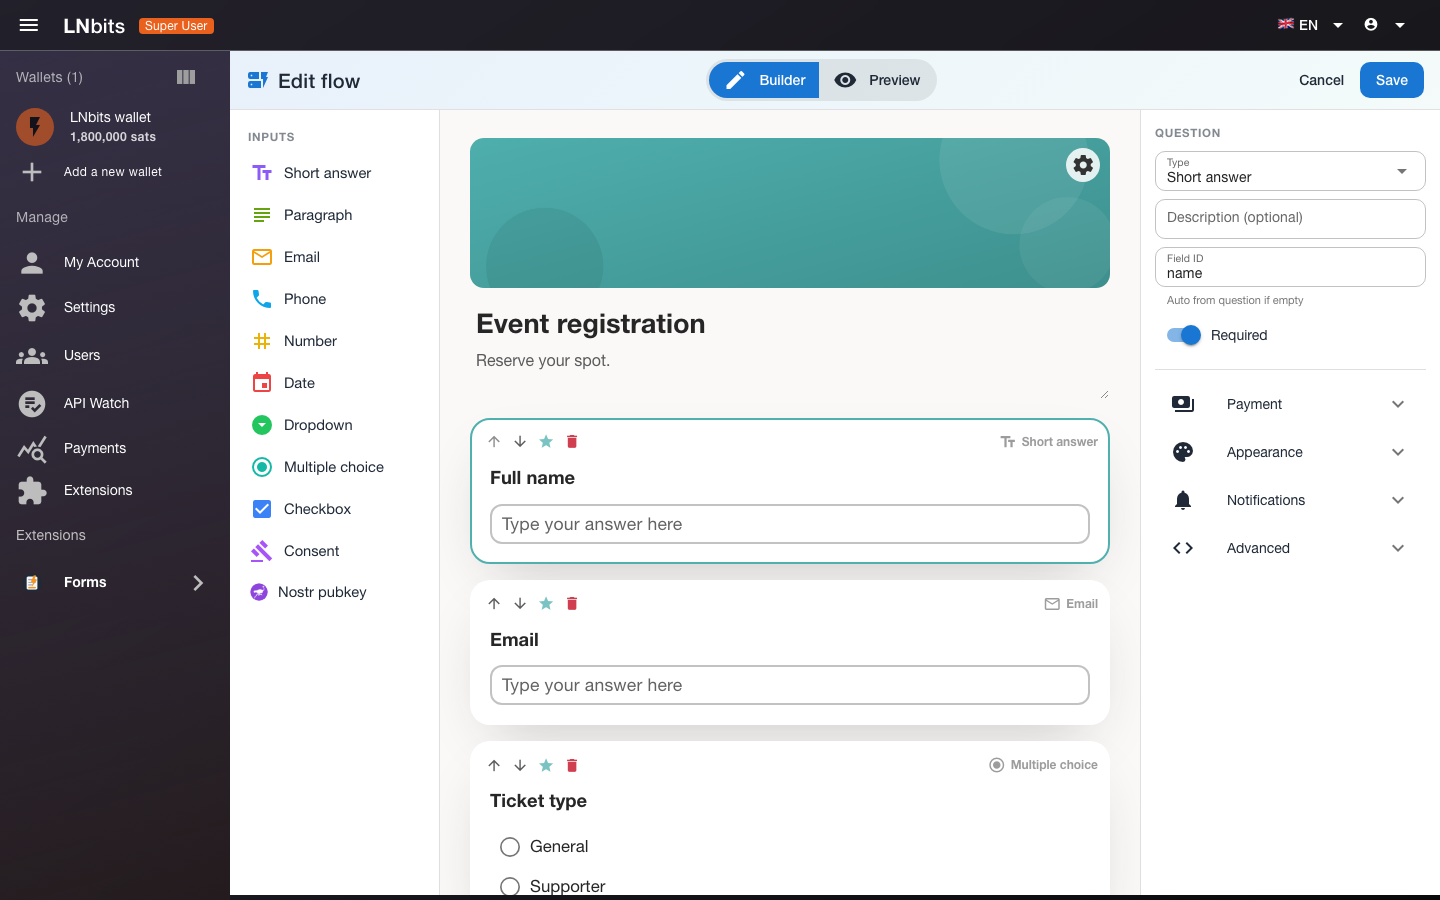
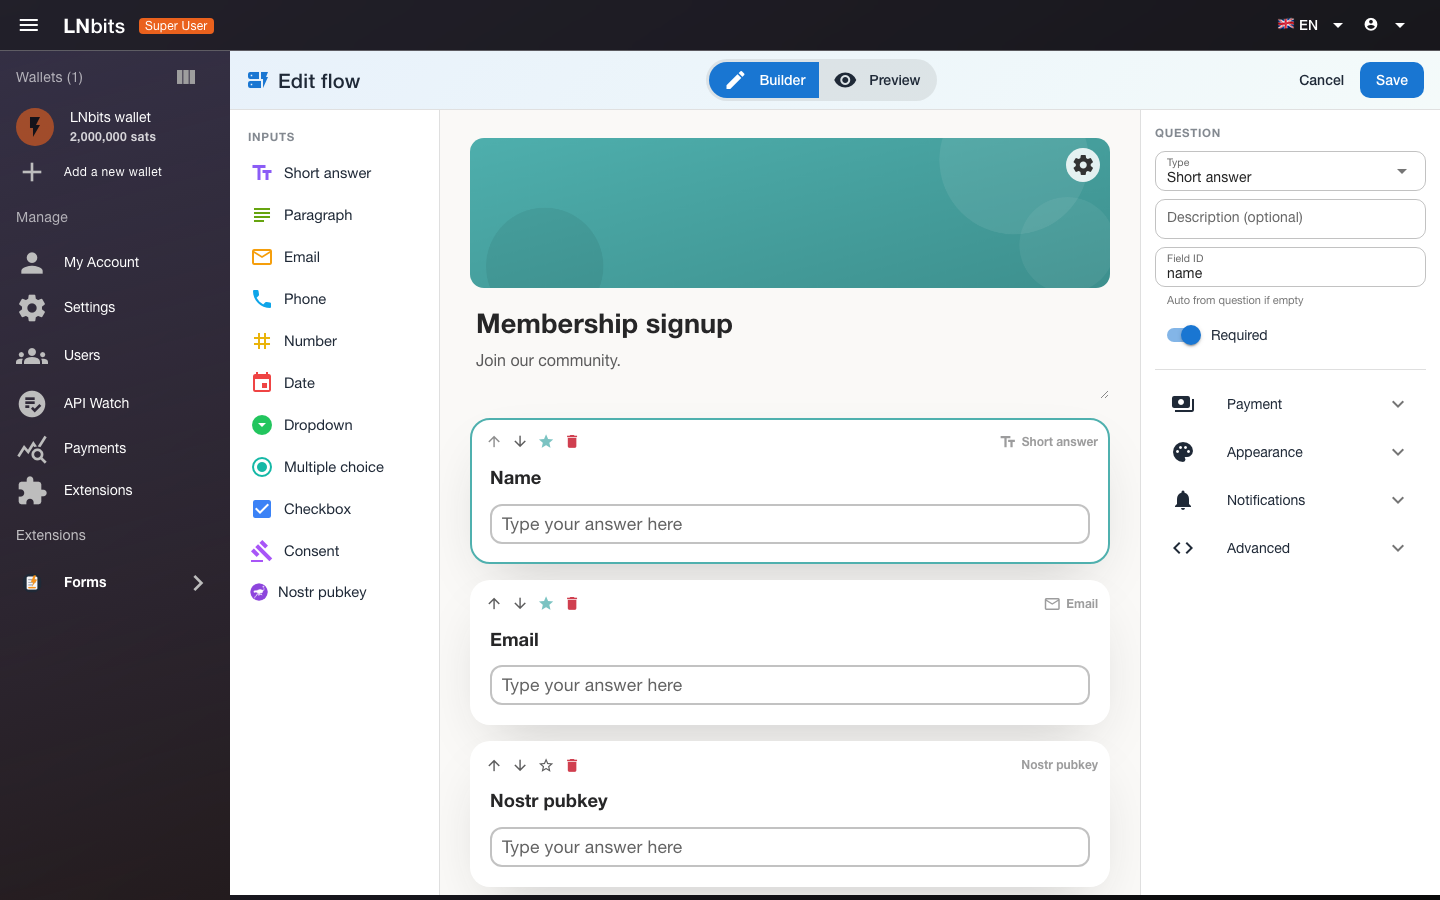
Use paid membership example in directory screenshots
Regenerate all seven screenshots around the Paid membership flow
instead of event registration. Change the default confirmation text
from "Registration confirmed" to "Thanks — your submission has been
received." since not every form is a registration.

Also fix embed.js resolving relative header/end image URLs against the
host page origin instead of the LNbits origin, which left a broken
banner on external sites.

diff --git a/static/js/embed.js b/static/js/embed.js
@@ -11,6 +11,9 @@
   var ORIGIN = srcUrl.origin;
   var API = ORIGIN + '/api/v1/ext/forms';
   var QR_URL = new URL('qr.js', srcUrl).href;
+  function assetUrl(u) {
+    try { return new URL(String(u), ORIGIN + '/').href; } catch (_) { return String(u); }
+  }
   var POLL_MS = 2000;
   var disposed = false, flow = null, fields = [], settings = {}, pricing = {};
   var submission = null, pollTimer = null, tickTimer = null, errorBox = null, qrCancel = null;
@@ -276,7 +279,7 @@ button,input,textarea,select{font:inherit}button:disabled{opacity:.55;cursor:not
     var p = palette();
     if (settings.headerImage) {
       var banner = element('div', 'fm-banner', null, card);
-      banner.style.backgroundImage = 'url("' + String(settings.headerImage).replace(/"/g, '%22') + '")';
+      banner.style.backgroundImage = 'url("' + assetUrl(settings.headerImage).replace(/"/g, '%22') + '")';
     }
     element('h1', 'fm-title', flow.title, card);
     if (flow.description) element('p', 'fm-desc', flow.description, card);
@@ -419,10 +422,10 @@ button,input,textarea,select{font:inherit}button:disabled{opacity:.55;cursor:not
     replaceContents(card);
     if (settings.endImage) {
       var endBanner = element('div', 'fm-banner', null, card);
-      endBanner.style.backgroundImage = 'url("' + String(settings.endImage).replace(/"/g, '%22') + '")';
+      endBanner.style.backgroundImage = 'url("' + assetUrl(settings.endImage).replace(/"/g, '%22') + '")';
     }
     var box = element('div', 'fm-center', null, card);
-    element('div', 'fm-title', settings.confirmText || 'Registration confirmed', box);
+    element('div', 'fm-title', settings.confirmText || 'Thanks — your submission has been received.', box);
     var code = view && view.ticketCode;
     if (code) {
       element('div', 'fm-muted', 'Your confirmation code', box);

diff --git a/static/js/public-template.js b/static/js/public-template.js
@@ -68,7 +68,7 @@ return function render(_ctx, _cache) {
                       color: "positive",
                       size: "3rem"
                     }),
-                    _createElementVNode("div", { class: "text-h5 q-mt-md" }, _toDisplayString(_ctx.settings.confirmText || 'Registration confirmed'), 1 /* TEXT */),
+                    _createElementVNode("div", { class: "text-h5 q-mt-md" }, _toDisplayString(_ctx.settings.confirmText || 'Thanks — your submission has been received.'), 1 /* TEXT */),
                     (_ctx.submission && _ctx.submission.ticketCode)
                       ? (_openBlock(), _createElementBlock("div", {
                           key: 0,

diff --git a/templates/public.html b/templates/public.html
@@ -20,7 +20,7 @@
         <div v-if="settings.endImage" class="pf-banner" :style="endBannerStyle"></div>
         <q-card class="pf-card text-center">
           <q-icon name="check_circle" color="positive" size="3rem"></q-icon>
-          <div class="text-h5 q-mt-md">{{settings.confirmText || 'Registration confirmed'}}</div>
+          <div class="text-h5 q-mt-md">{{settings.confirmText || 'Thanks — your submission has been received.'}}</div>
           <div v-if="submission && submission.ticketCode" class="q-mt-lg">
             <div class="text-caption text-grey-7">Your confirmation code</div>
             <div class="text-h6 ticket-code">{{submission.ticketCode}}</div>
